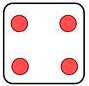
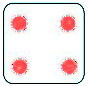
made dice transparent and added dice panel

diff --git a/meowbg/gui/boardwidget.py b/meowbg/gui/boardwidget.py
@@ -1,9 +1,14 @@
 from kivy.animation import Animation
+from kivy.graphics.context_instructions import Color
+from kivy.graphics.vertex_instructions import Rectangle
 from kivy.logger import Logger
+from kivy.uix.floatlayout import FloatLayout
 from kivy.uix.gridlayout import GridLayout
 from kivy.uix.widget import Widget
 from kivy.vector import Vector
-from meowbg.gui.basicparts import IndexRow, SpikePanel
+from meowbg.core.board import WHITE
+from meowbg.gui.basicparts import IndexRow, SpikePanel, DicePanel
+
 
 class BoardWidget(GridLayout):
     def __init__(self, **kwargs):
@@ -34,9 +39,11 @@ class BoardWidget(GridLayout):
         self.add_widget(Widget(size_hint=(1/17.5, 1)))
 
         self.add_widget(Widget(size_hint=(1/17.5, 1)))
-        self.add_widget(Widget(size_hint=(5/17.5, 1)))
+        self.white_dice_area = DicePanel(size_hint=(5/17.5, 1))
+        self.add_widget(self.white_dice_area)
         self.add_widget(Widget(size_hint=(1.5/17.5, 1)))
-        self.add_widget(Widget(size_hint=(5/17.5, 1)))
+        self.black_dice_area = DicePanel(size_hint=(5/17.5, 1))
+        self.add_widget(self.black_dice_area)
 
         self.add_widget(Widget(size_hint=(1/17.5, 1)))
         self.add_widget(Widget(size_hint=(1/17.5, 1)))
@@ -129,6 +136,16 @@ class BoardWidget(GridLayout):
             if amount:
                 col = self.color_map[checkers[0]]
                 self.add_checkers(idx, col, amount)
+
+    def show_dice(self, dice, color, on_finish):
+        self.white_dice_area.clear_widgets()
+        self.black_dice_area.clear_widgets()
+
+        if color == WHITE:
+            self.white_dice_area.show(dice)
+        else:
+            self.black_dice_area.show(dice)
+        on_finish()
 
     def spikes(self):
         """

diff --git a/meowbg/gui/main.py b/meowbg/gui/main.py
@@ -15,7 +15,6 @@ from kivy.uix.textinput import TextInput
 from kivy.factory import Factory
 from kivy.logger import Logger
 from kivy.resources import resource_add_path
-import time
 from meowbg.core.move import PartialMove
 from meowbg.gui.basicparts import Spike, SpikePanel, IndexRow, ButtonPanel
 from meowbg.gui.boardwidget import BoardWidget
@@ -192,11 +191,9 @@ class MatchWidget(FloatLayout):
         self.busy = True
         self.board.move_by_indexes(move.origin, move.target, self.release)
 
-    def show_dice_roll(self, dice):
+    def show_dice_roll(self, dice, color):
         self.busy = True
-        with self.canvas:
-            for idx, die in enumerate(dice):
-                Rectangle(source="die%i.png" % die, pos=(100, 100 + idx * 60), size=(50, 50))
+        self.board.show_dice(dice, color, self.release)
 
     def _interpret_event(self, event):
         if isinstance(event, MatchEvent):
@@ -208,7 +205,7 @@ class MatchWidget(FloatLayout):
         elif isinstance(event, SingleMoveEvent):
             self.execute_move(event.move)
         elif isinstance(event, DiceEvent):
-            self.show_dice_roll(event.dice)
+            self.show_dice_roll(event.dice, event.color)
         else:
             Logger.error("Cannot interpret event %s" % event)
 

diff --git a/meowbg/gui/basicparts.py b/meowbg/gui/basicparts.py
@@ -106,3 +106,17 @@ class ButtonPanel(BoxLayout):
         for li in self.listeners:
             li(event)
 
+class DicePanel(FloatLayout):
+    def __init__(self, **kwargs):
+        FloatLayout.__init__(self, **kwargs)
+
+    def show(self, dice):
+        with self.canvas:
+            Color(0.9, 0.9, 0.9)
+            for idx, die in enumerate(dice):
+                die_width = self.height * 0.9
+                xstart = self.x + self.width/2.0 - (die_width + 3) * len(dice)/2
+                xpos = xstart + (die_width + 3) * idx
+                ypos = self.y
+                size = die_width, die_width
+                Rectangle(source="die%i.png" % die, pos=(xpos, ypos), size=size)

diff --git a/meowbg/network/bot.py b/meowbg/network/bot.py
@@ -58,7 +58,7 @@ class Bot(object):
 
             self.match.opponents_dice = []
             self.match.players_remaining_dice = self.dice.roll()
-            self.notify(DiceEvent(self.match.players_remaining_dice))
+            self.notify(DiceEvent(self.match.players_remaining_dice, self.match.players_color))
 
             self.match.turn = self.match.players_color
 

diff --git a/meowbg/network/events.py b/meowbg/network/events.py
@@ -4,8 +4,8 @@ class MatchEvent(object):
         self.match = match
 
 class DiceEvent(object):
-    def __init__(self, dice):
-        self.dice = dice
+    def __init__(self, dice, color):
+        self.dice, self.color = dice, color
 
 class CubeEvent(object):
     def __init__(self, cube_number):
